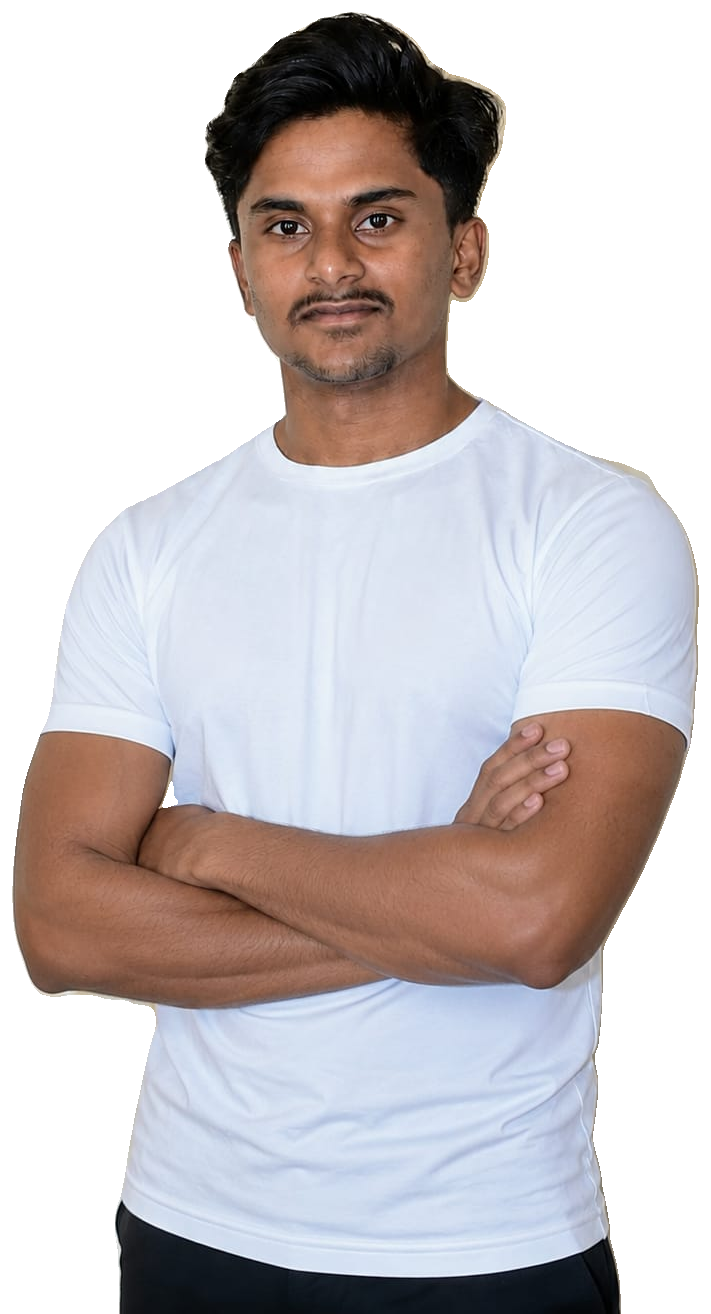
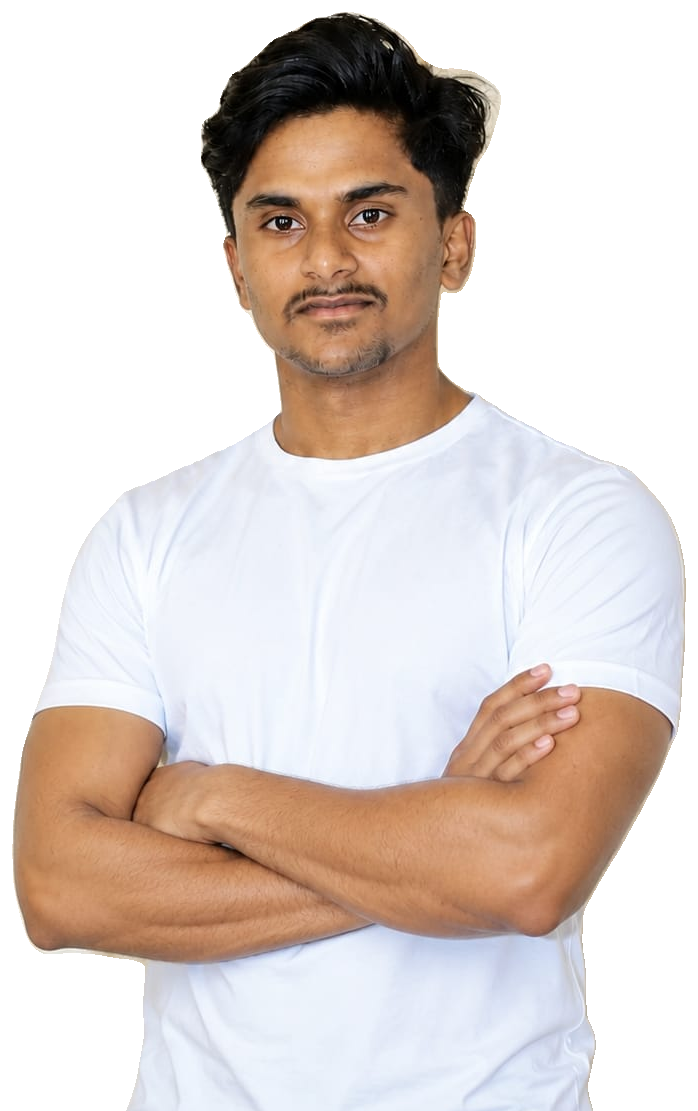
Portrait: new crossed-arms photo, black & white, cropped below the arms

diff --git a/src/index.css b/src/index.css
@@ -272,10 +272,10 @@ main { position: relative; z-index: 1; }
   width: 100%;
   height: auto;
   display: block;
-  /* Cut-out figure that blends into the paper background (full colour) */
-  filter: saturate(1.05) contrast(1.02);
-  -webkit-mask-image: linear-gradient(to bottom, #000 88%, transparent 100%);
-          mask-image: linear-gradient(to bottom, #000 88%, transparent 100%);
+  /* Cut-out figure, black & white, blending into the paper background */
+  filter: grayscale(1) contrast(1.06);
+  -webkit-mask-image: linear-gradient(to bottom, #000 90%, transparent 100%);
+          mask-image: linear-gradient(to bottom, #000 90%, transparent 100%);
 }
 .hero__portrait-cap {
   writing-mode: vertical-rl;